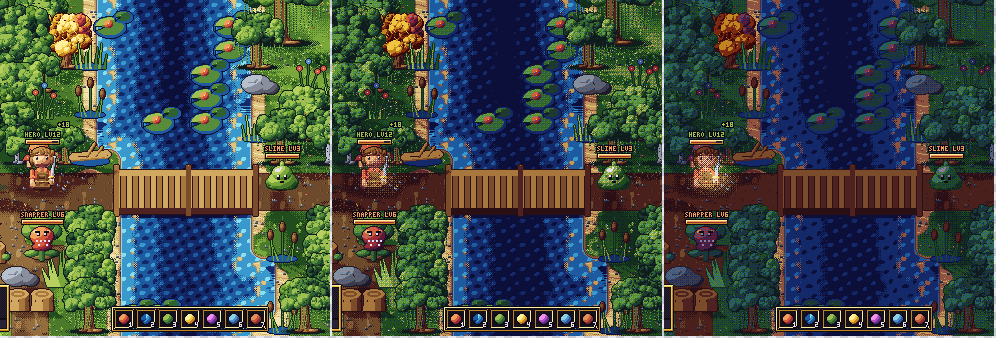
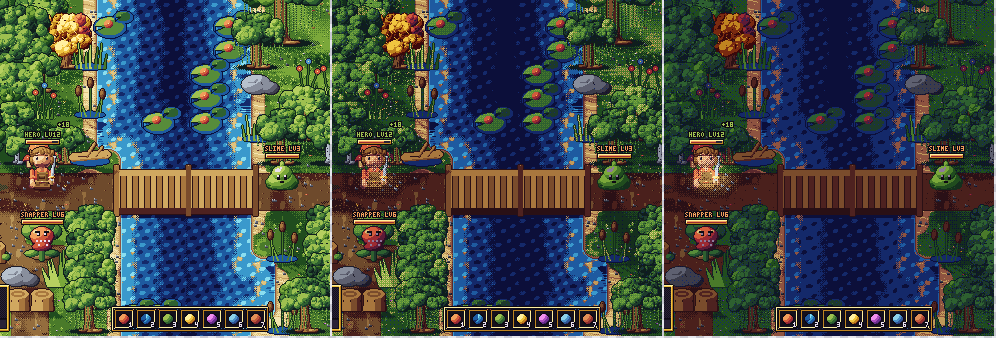
Lighting: keep character hues at night, sparser cool dither

diff --git a/src/core/lighting.ts b/src/core/lighting.ts
@@ -189,11 +189,11 @@ const GRADES: Record<TimeOfDay, Grade> = {
   day: { shift: 0, hi: 0, tint: null, tintAmt: 0, warm: 0 },
   dawn: { shift: -0.5, hi: 0, tint: "water", tintAmt: 0.14, warm: 0.2 },
   dusk: { shift: -1, hi: 0, tint: "water", tintAmt: 0.06, warm: 0.3 },
-  night: { shift: -1.5, hi: -0.5, tint: "water", tintAmt: 0.3, warm: 0 },
+  night: { shift: -1.5, hi: -0.5, tint: "water", tintAmt: 0.22, warm: 0 },
 };
 
 /** Time-of-day colour grade over the whole image; at night the lights glow. */
-export function grade(img: Sprite, kit: StyleKit, time: TimeOfDay, lights: Light[] = [], seed = 0): Sprite {
+export function grade(img: Sprite, kit: StyleKit, time: TimeOfDay, lights: Light[] = [], seed = 0, keepHue?: Uint8Array): Sprite {
   if (time === "day") return img;
   const g = GRADES[time];
   const depth = normalizeDepth(kit.rampDepth);
@@ -211,12 +211,13 @@ export function grade(img: Sprite, kit: StyleKit, time: TimeOfDay, lights: Light
       glow = glow > 0 ? Math.max(0, glow * (time === "night" ? 1 : 0.5)) : 0;
       const bayer = (BAYER[(y & 3) * 4 + (x & 3)] + 0.5) / 16;
       const lit = glow > 0 && glow > bayer * 0.9;
+      const keep = !!keepHue?.[i];
       const ink = d.mat === "ink" || d.mat === "ui";
-      let shift = ink ? g.shift * 0.5 : g.shift + (d.level >= 3 ? g.hi : 0);
+      let shift = ink || keep ? g.shift * (keep ? 0.7 : 0.5) : g.shift + (d.level >= 3 ? g.hi : 0);
       let mat: Material | undefined;
-      if (!ink && !lit) {
+      if (!ink && !lit && !keep) {
         const r = hash(x, y, seed + 17);
-        if (g.tint && d.mat !== "water" && TINTED.has(d.mat) && d.mat !== g.tint && bayer < g.tintAmt * (0.5 + d.level / 6) && r < 0.85) mat = g.tint;
+        if (g.tint && d.mat !== "water" && TINTED.has(d.mat) && d.mat !== g.tint && bayer < g.tintAmt * Math.max(0, 1.3 - d.level / 3) && r < 0.85) mat = g.tint;
         else if (g.warm && d.level >= 3 && (d.mat === "grass" || d.mat === "foliage") && bayer < g.warm) mat = d.mat === "grass" ? "sand" : "grass";
       }
       if (lit) shift = Math.min(2, shift + 4.5 * glow + 1);

diff --git a/scripts/mmo-scene.ts b/scripts/mmo-scene.ts
@@ -120,12 +120,18 @@ export function renderScene(kit: StyleKit, seed: number, time?: TimeOfDay): Spri
 
   // y-sort: base line = sprite bottom (shadows sit under the sprite, drawn with it)
   items.sort((a, b) => a.y + a.sprite.h - (b.y + b.sprite.h) || a.x - b.x);
+  // characters keep their hues under the night grade
+  const keepHue = new Uint8Array(world.w * world.h);
   for (const it of items) {
+    for (let y = 0; y < it.sprite.h; y++) for (let x = 0; x < it.sprite.w; x++) {
+      const X = it.x + x, Y = it.y + y;
+      if (it.sprite.data[y * it.sprite.w + x] && X >= 0 && Y >= 0 && X < world.w && Y < world.h) keepHue[Y * world.w + X] = it.shadow ? 1 : 0;
+    }
     if (it.shadow) shadowUnder(world, it.x + it.sprite.w / 2, it.y + it.sprite.h - 1, it.shadow);
     blit(world, it.sprite, it.x, it.y);
   }
 
-  if (time) world = grade(world, kit, time, [{ x: hp.cx + 6, y: hp.base - 14, r: 34 }], seed);
+  if (time) world = grade(world, kit, time, [{ x: hp.cx + 6, y: hp.base - 14, r: 34 }], seed, keepHue);
 
   // floating text and nameplates are UI: above everything
   const put = (s: Sprite, x: number, y: number) => blit(world, s, Math.round(x), Math.round(y));
